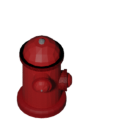
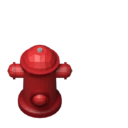
feat: update to new light for fire hydrant

Changed region(s): [[0.0312, 0.25, 0.5938, 0.9375]]

diff --git a/tool/blender_scene_constructor/main.py b/tool/blender_scene_constructor/main.py
@@ -16,7 +16,7 @@ SHADOW_GROUP_NAME = "ShadowToggleable"
 # Set this to True if you want to render only the shadows
 ONLY_RENDER_SHADOWS = False
 # Set this to True if you want to reset the camera to the default position (leave true for the first run)
-RESET_CAMERA = False
+RESET_CAMERA = True
 
 def setup_camera(camera):
     # Set the camera to orthographic mode
@@ -59,27 +59,48 @@ def delete_all_sun_lamps():
 def add_or_move_area(camera):
     # Delete all sun lamps
     delete_all_sun_lamps()
-    area = bpy.data.objects.get("Area")
+    shadow_caster = bpy.data.objects.get("ShadowCaster")
+    key_light = bpy.data.objects.get("KeyLight")
     
-    if area is None:
+    if shadow_caster is None:
         # Add a new area lamp
         bpy.ops.object.light_add(type='AREA', location=(camera.location.x - 3, camera.location.y, camera.location.z))
         # Fetch the newly created area lamp
-        area = bpy.context.object
-        area.name = "Area"
+        shadow_caster = bpy.context.object
+        shadow_caster.name = "ShadowCaster"
+        
+    if key_light is None:
+        # Add a new area lamp
+        bpy.ops.object.light_add(type='AREA', location=(camera.location.x, camera.location.y, camera.location.z))
+        # Fetch the newly created area lamp
+        key_light = bpy.context.object
+        key_light.name = "KeyLight"
     
     # Set the area light strength
-    area.data.energy = 300
+    shadow_caster.data.energy = 1000
+    shadow_caster.data.size = 5
+    key_light.data.energy=500
+    key_light.data.size = 5
+    key_light.data.cycles.cast_shadow = False
+
     
     # Position the area lamp 3 units to the left of the camera and at the same Y position
-    area.location.x = camera.location.x - SHADOW_SIZE
-    area.location.y = camera.location.y
-    area.location.z = camera.location.z
+    shadow_caster.location.x = -SHADOW_SIZE
+    shadow_caster.location.y = camera.location.y+SHADOW_SIZE*3
+    shadow_caster.location.z = camera.location.z
+    
+    # position key light with  the camera
+    key_light.location = camera.location
     
     # Calculate the direction vector from area lamp location to origin
-    direction = -area.location
+    key_light_direction = -key_light.location
     # Align the area lamp to point in the calculated direction
-    area.rotation_euler = direction.to_track_quat('-Z', 'Y').to_euler()
+    key_light.rotation_euler = key_light_direction.to_track_quat('-Z', 'Y').to_euler()
+    
+    # Calculate the direction vector from area lamp location to origin
+    shadow_caster_direction = -shadow_caster.location
+    # Align the area lamp to point in the calculated direction
+    shadow_caster.rotation_euler = shadow_caster_direction.to_track_quat('-Z', 'Y').to_euler()
     
 def modify_or_create_shadow_toggleable_node_group():
     # Check if the group already exists
